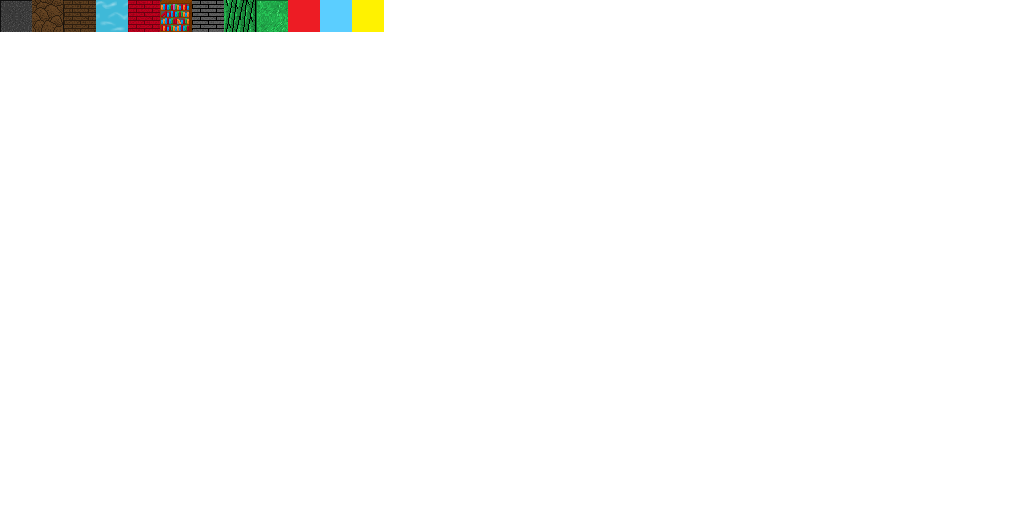
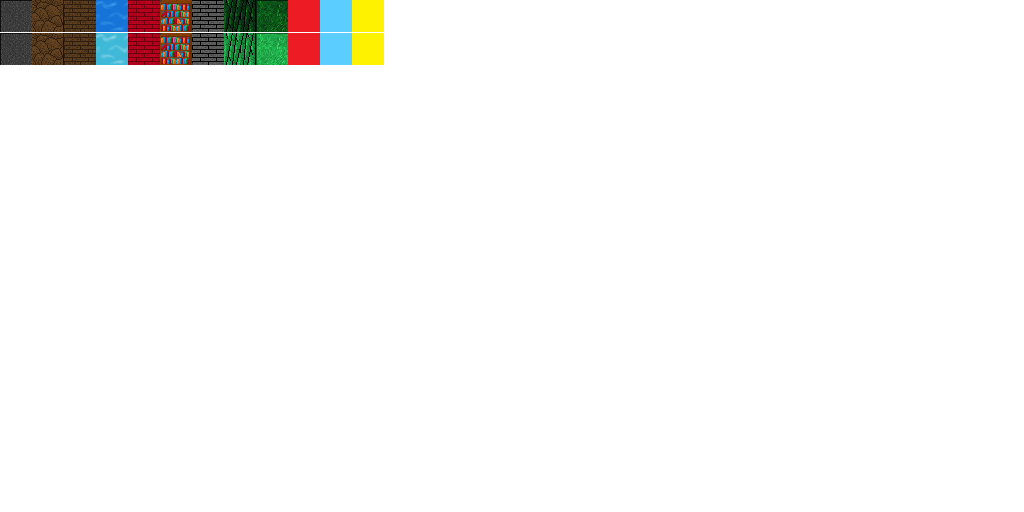
후토,토지코,마미조 토대를 만들어둠. 풀과 물의 타일을 좀 더 진하게바꿈

Changed region(s): [[0.0, 0.0, 0.375, 0.125]]

diff --git a/th_crawl/texture.cpp b/th_crawl/texture.cpp
@@ -357,6 +357,9 @@ textures img_mons_hourai[] =
 
 textures img_mons_youmu_yukkuri(&texture_monster01, 183, 255);
 textures img_mons_tokiko(&texture_monster01, 184, 255);
+textures img_mons_toziko(&texture_monster01, 185, 255);
+textures img_mons_futo(&texture_monster01, 186, 255);
+textures img_mons_mamizo(&texture_monster01, 187, 255);
 
 
 
@@ -1687,8 +1690,13 @@ int texturetoint(textures* input)
 	else if(input == &img_item_book[5])
 		return 322;
 	else if(input == &img_item_book[6])
-		return 323;
-	
+		return 323;	
+	else if(input == &img_mons_toziko)
+		return 324;
+	else if(input == &img_mons_futo)
+		return 325;
+	else if(input == &img_mons_mamizo)
+		return 326;
 	else
 		return 0;
 }
@@ -2344,6 +2352,12 @@ textures* inttotexture(int input)
 		return &img_item_book[5];
 	case 323:
 		return &img_item_book[6];
+	case 324:
+		return &img_mons_toziko;
+	case 325:
+		return &img_mons_futo;
+	case 326:
+		return &img_mons_mamizo;
 	default:
 		return &img_mons_default;
 	}

diff --git a/th_crawl/create_mon.cpp b/th_crawl/create_mon.cpp
@@ -1056,6 +1056,9 @@ int get_unique_to_id(int m_id)
 	case MON_KAGUYA:  return 47;
 	case MON_MOKOU:  return 48;
 	case MON_TOKIKO: return 49;
+	case MON_TOZIKO: return 50;
+	case MON_FUTO: return 51;
+	case MON_MAMIZO: return 52;
 	}
 }
 
@@ -1260,6 +1263,15 @@ void create_id_to_unique(int id, int level)
 		break;
 	case 49:
 		index.push_back(MON_TOKIKO);
+		break;
+	case 50:
+		index.push_back(MON_TOZIKO);
+		break;
+	case 51:
+		index.push_back(MON_FUTO);
+		break;
+	case 52:
+		index.push_back(MON_MAMIZO);
 		break;
 	}
 
@@ -1742,6 +1754,16 @@ void SetResistMonster(monster* mon)
 	case MON_TOKIKO:
 		mon->wind_resist=1;
 		mon->poison_resist=-1;
+		break;
+	case MON_TOZIKO:
+		mon->elec_resist=3;
+		mon->ice_resist=1;
+		mon->poison_resist=1;
+		break;
+	case MON_FUTO:
+		mon->fire_resist=1;
+		break;
+	case MON_MAMIZO:
 		break;
 	}
 }

diff --git a/th_crawl/wiz.cpp b/th_crawl/wiz.cpp
@@ -470,7 +470,7 @@ void wiz_mode()
 			}
 			break;
 		case 'M':
-			if(monster* mon_=BaseSummon(MON_KOISHI, 100, false, false, 2, &you, you.position, SKD_OTHER, -1))
+			if(monster* mon_=BaseSummon(MON_MAMIZO, 100, false, false, 2, &you, you.position, SKD_OTHER, -1))
 			{
 				mon_->state.SetState(MS_SLEEP);
 				mon_->flag &= ~M_FLAG_SUMMON;
@@ -478,7 +478,7 @@ void wiz_mode()
 			}
 			break;
 		case 'm':
-			if(monster* mon_=BaseSummon(MON_MAGIC_BOOK, 100, false, false, 2, &you, you.position, SKD_OTHER, -1))
+			if(monster* mon_=BaseSummon(MON_TOZIKO, 100, false, false, 2, &you, you.position, SKD_OTHER, -1))
 			{
 				mon_->state.SetState(MS_SLEEP);
 				mon_->flag &= ~M_FLAG_SUMMON;

diff --git a/th_crawl/monster_texture.h b/th_crawl/monster_texture.h
@@ -135,6 +135,9 @@ extern textures img_mons_hourai[];
 extern textures img_mons_nesi;
 extern textures img_mons_youmu_yukkuri;
 extern textures img_mons_tokiko;
+extern textures img_mons_toziko;
+extern textures img_mons_futo;
+extern textures img_mons_mamizo;
 
 
 

diff --git a/th_crawl/spell_use.cpp b/th_crawl/spell_use.cpp
@@ -3450,6 +3450,12 @@ void SetSpell(monster_index id, monster* mon_, vector<item_infor> *item_list_, b
 			item_list_->push_back(t);
 		}
 		break;
+	case MON_TOZIKO:
+		break;
+	case MON_FUTO:
+		break;
+	case MON_MAMIZO:
+		break;
 	default:
 		break;
 	}

diff --git a/th_crawl/speak.cpp b/th_crawl/speak.cpp
@@ -4227,6 +4227,12 @@ char* Get_Speak(int mon_id, monster* monster_info, monster_speak_type type)
 			}
 		}
 		break;
+	case MON_TOZIKO:
+		break;
+	case MON_FUTO:
+		break;
+	case MON_MAMIZO:
+		break;
 	default:
 		break;
 	}

diff --git a/th_crawl/enum.h b/th_crawl/enum.h
@@ -604,6 +604,9 @@ enum monster_index
 	MON_FAKE_SANGHAI,
 	MON_FAKE_HOURAI,
 	MON_TOKIKO,
+	MON_TOZIKO,
+	MON_FUTO,
+	MON_MAMIZO,
 	MON_MAX,
 	MON_MAX_IN_FLOOR = 256
 };
